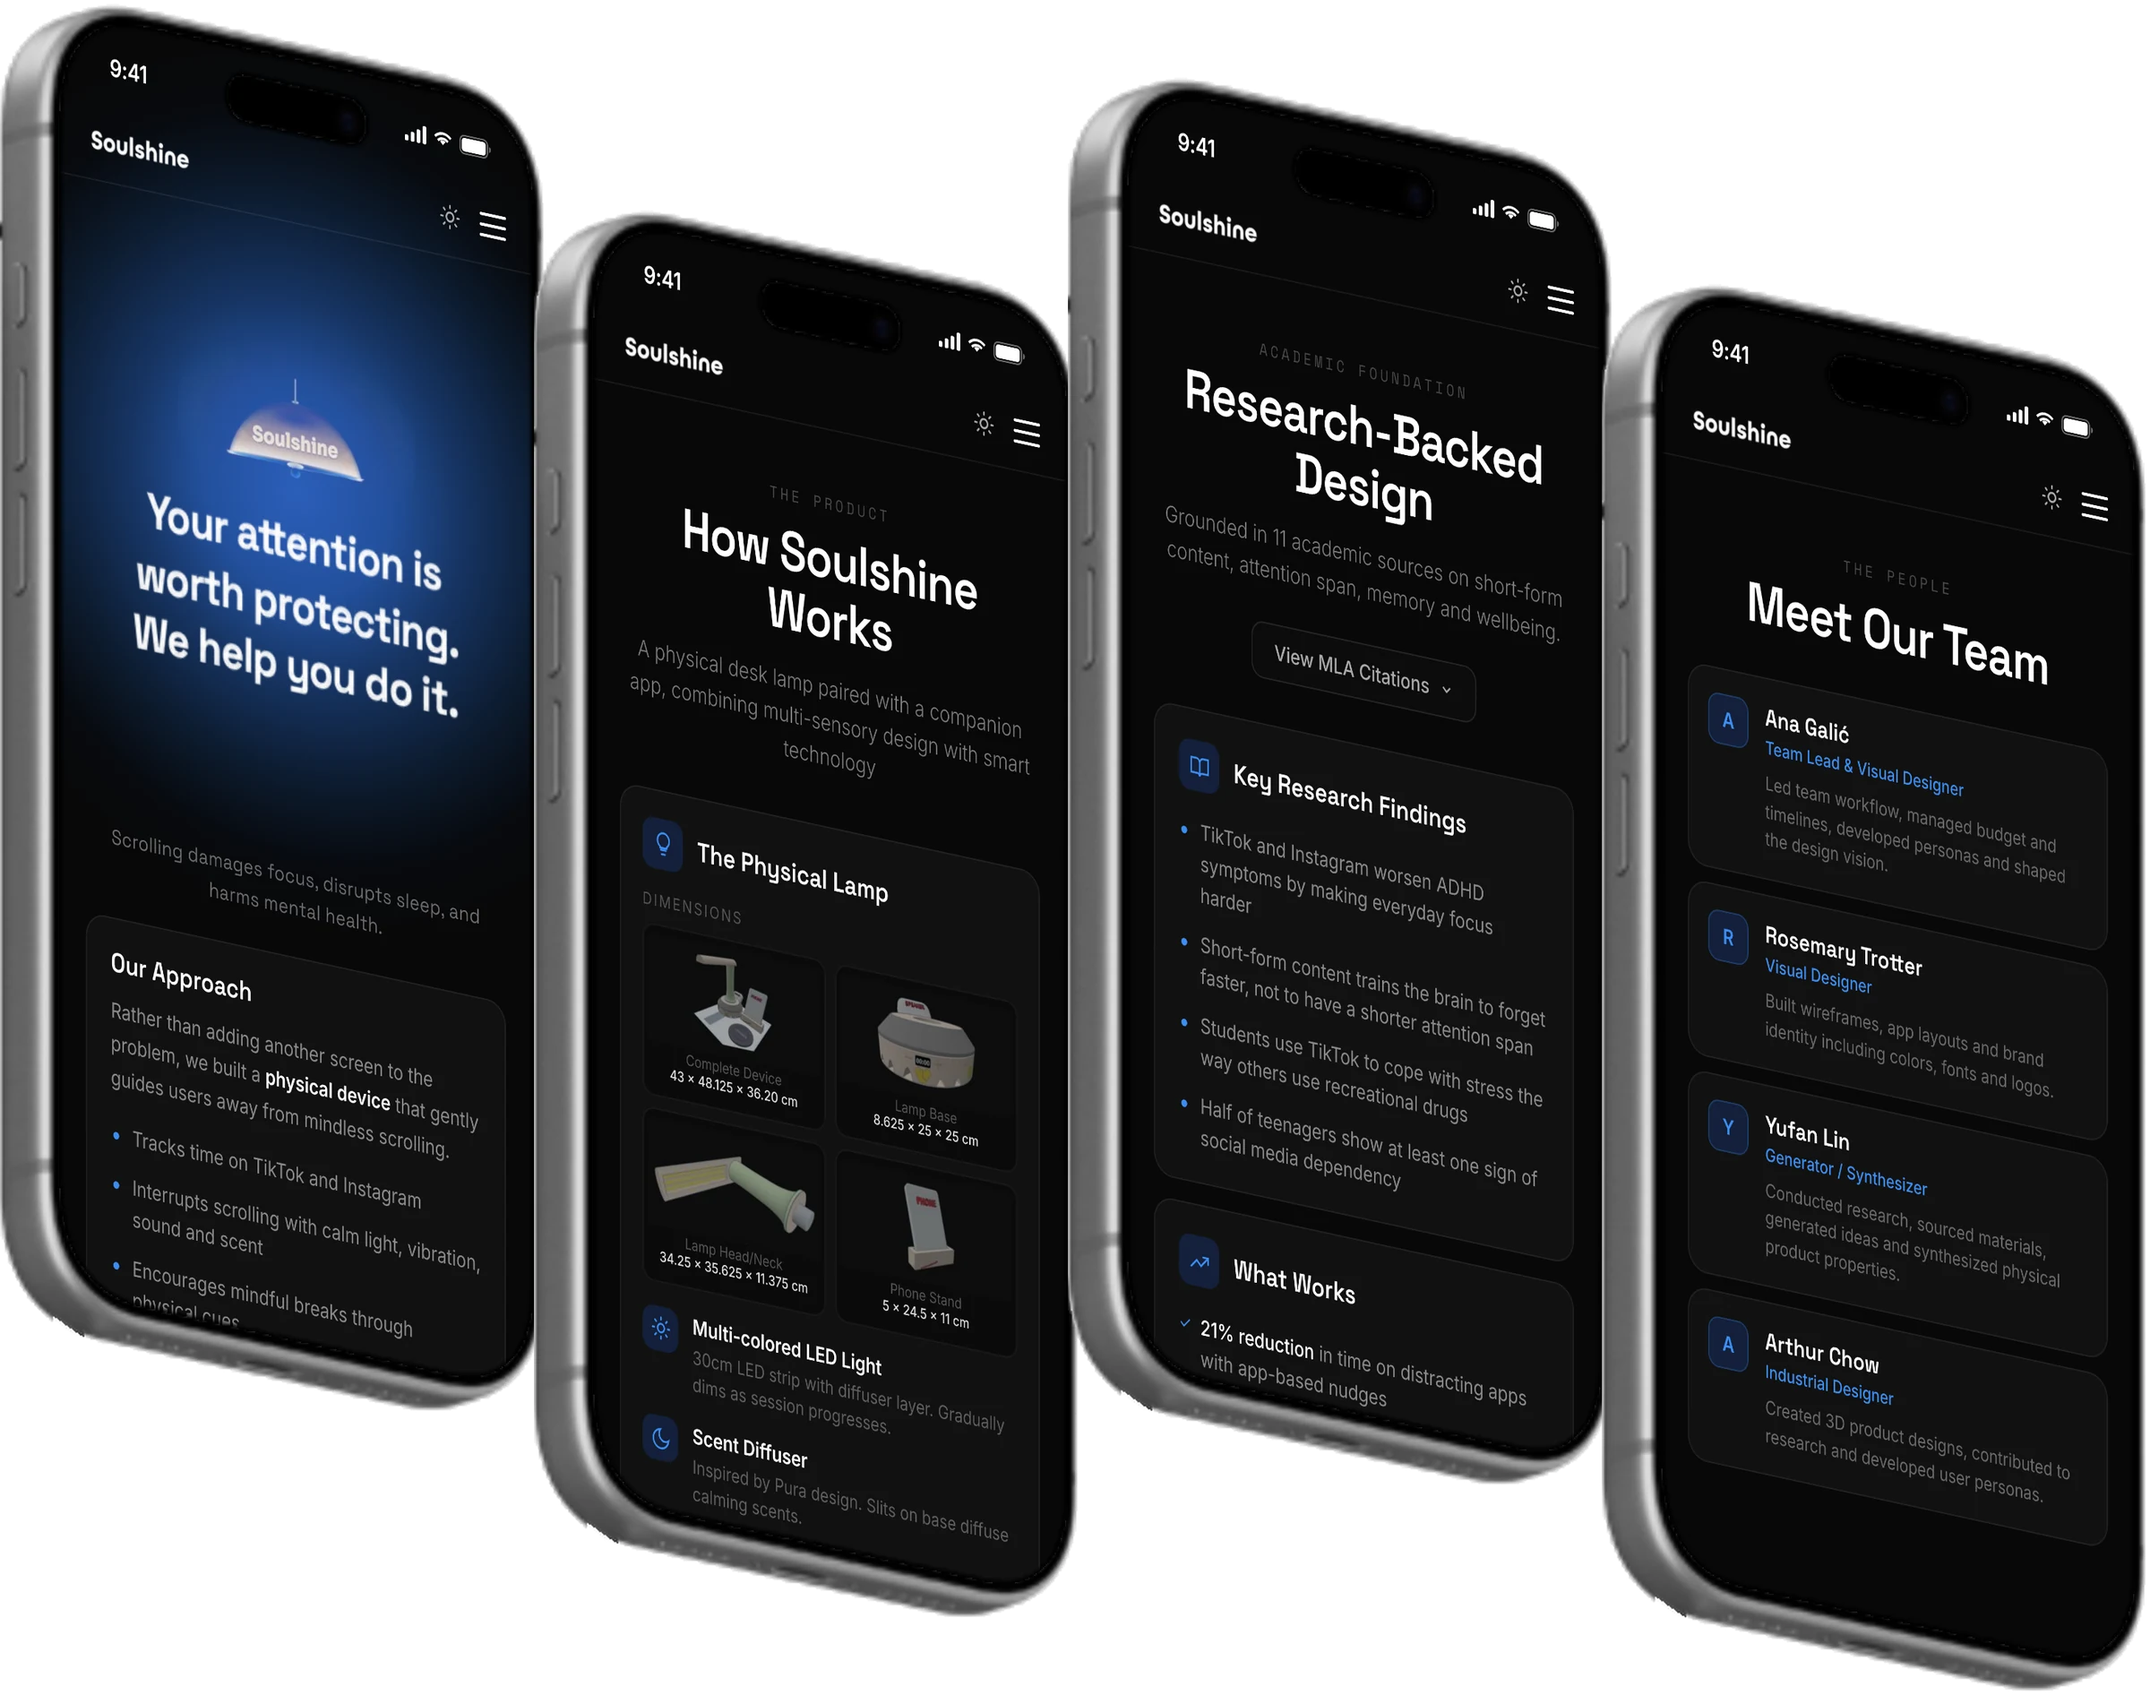
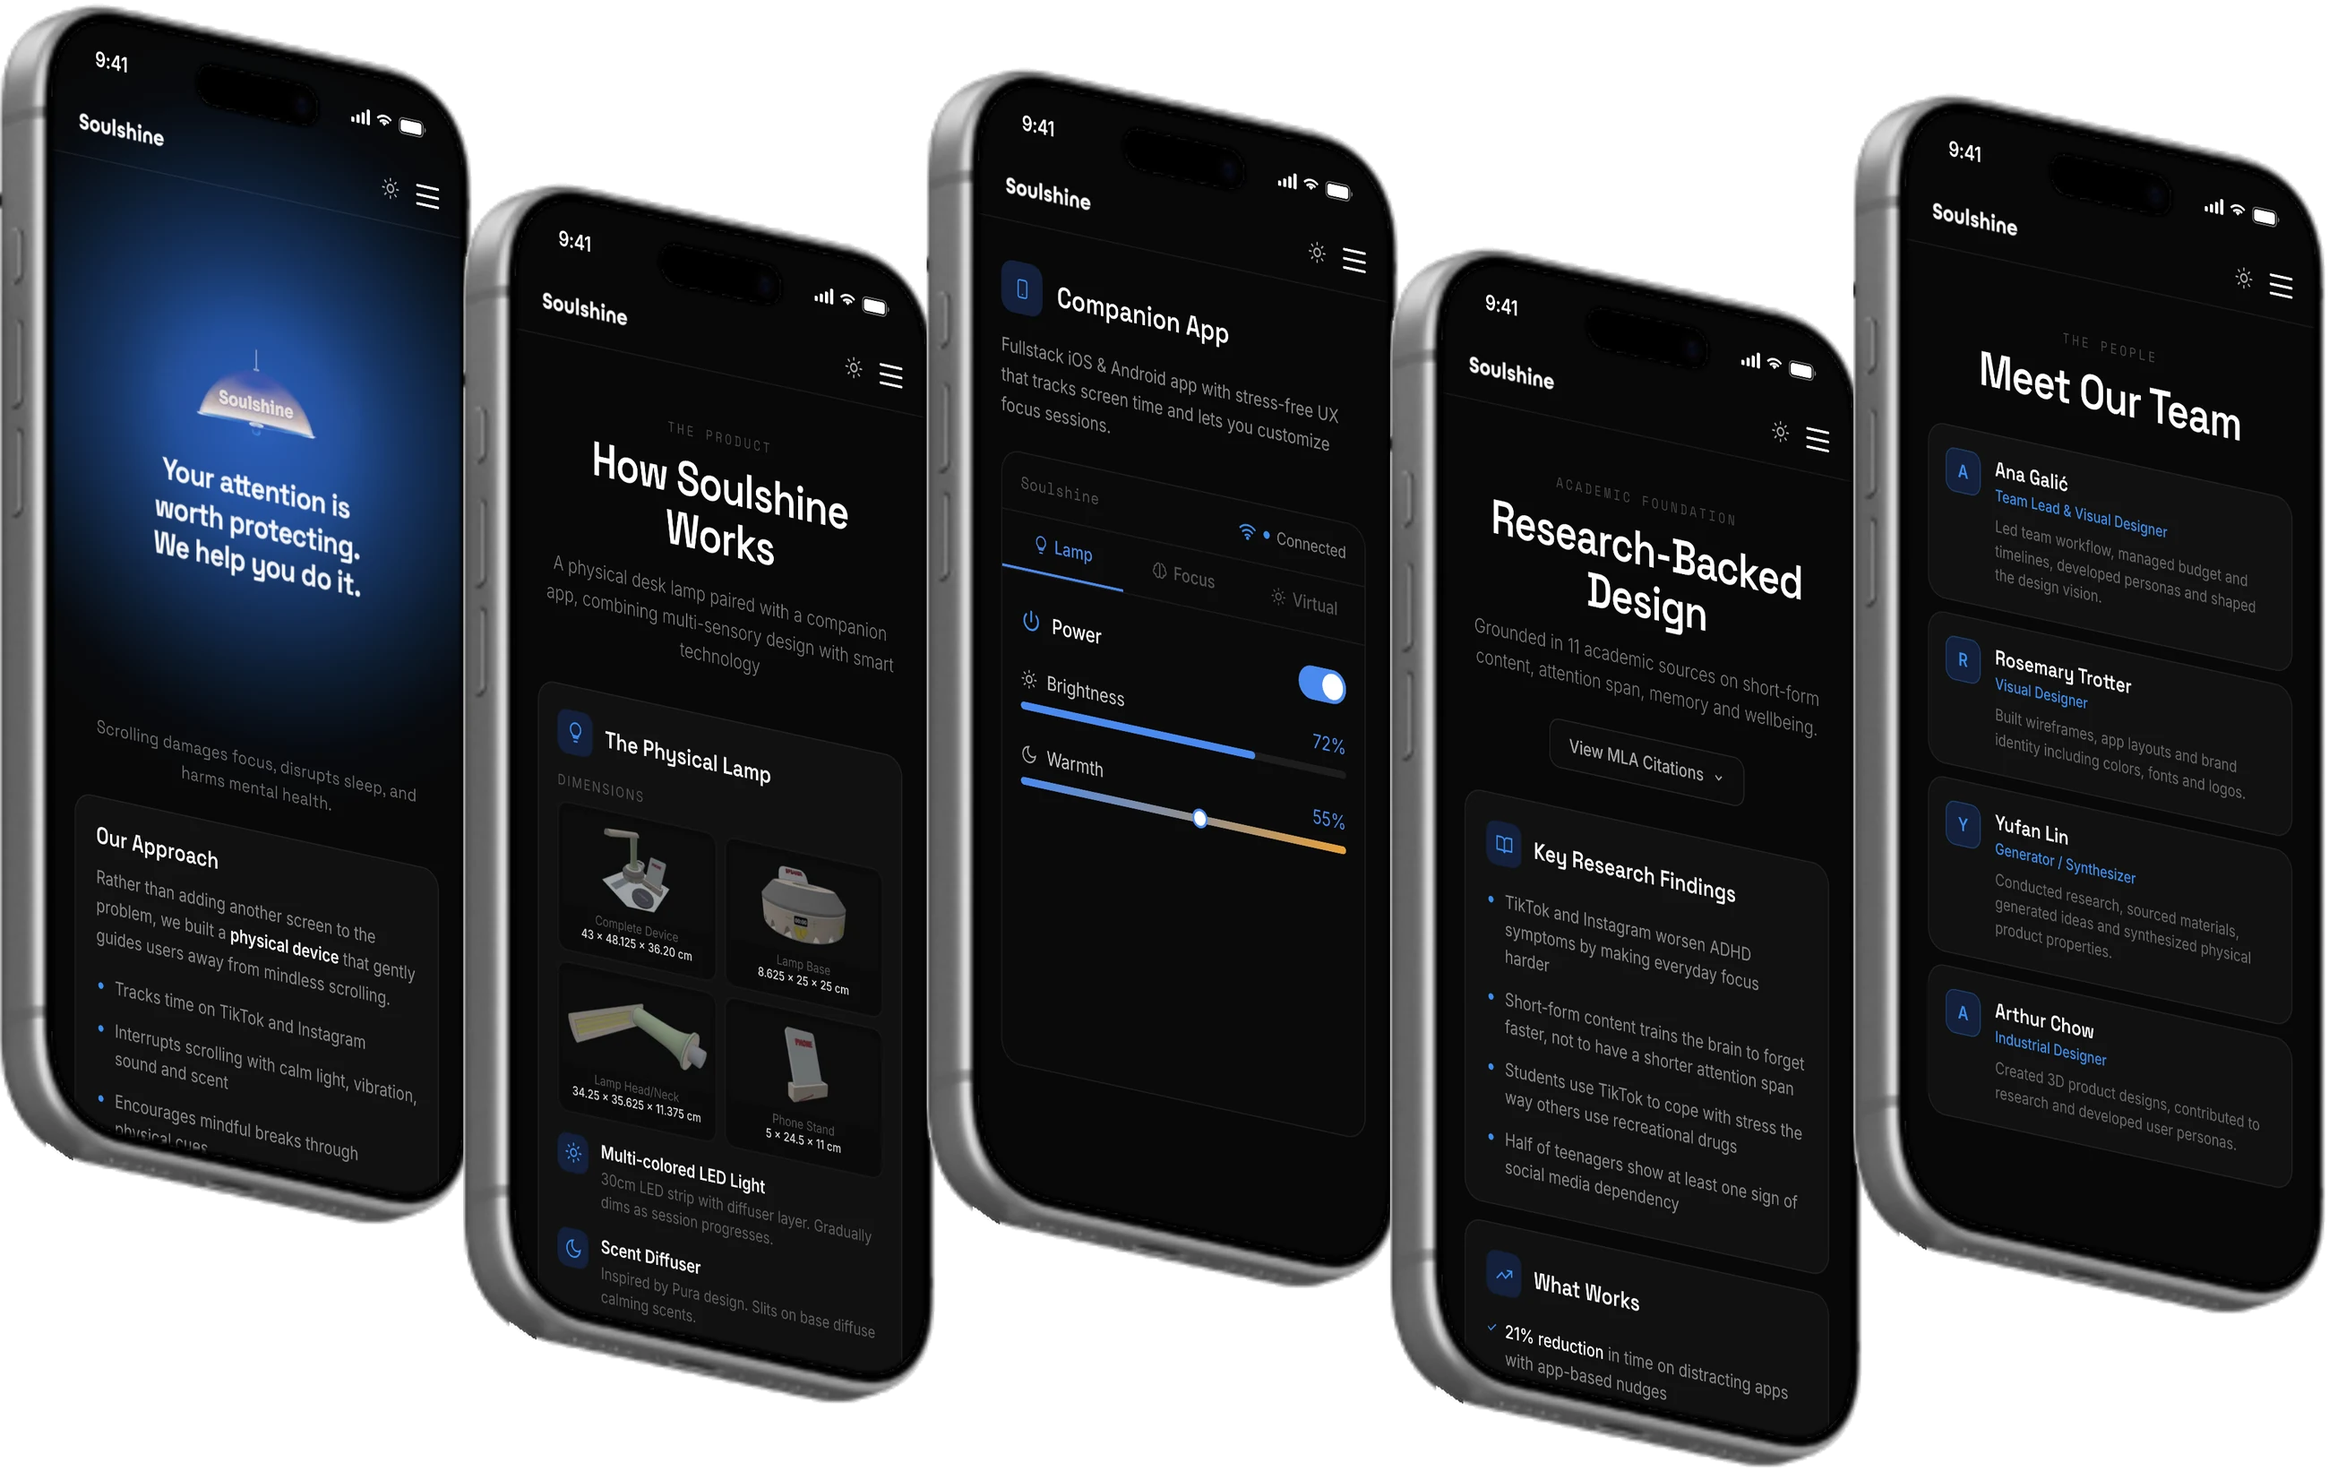
Soulshine phones: add Companion App screen, smaller About headline
Claude-Session: https://claude.ai/code/session_017Bf2Ji9pqjddmca5aaYHp1

diff --git a/index.html b/index.html
@@ -1496,7 +1496,7 @@ html.home-on.at-top .top::after{opacity:0}
 <section class="block-section" aria-labelledby="ss-site-h">
       <h2 class="sec-title" id="ss-site-h">Building the website &amp; brand</h2>
       <figure class="mockup"><img src="img/soulshine/mockup-modes.jpg" alt="Two laptops showing the Soulshine homepage in light mode and in dark mode, under the blue Soulshine lamp logo" loading="lazy"><figcaption class="label">The homepage in light and dark mode</figcaption></figure>
-      <figure class="mockup mockup-phones"><img src="img/soulshine/mobile-mockup.webp" width="2400" height="1892" alt="Four phones showing the Soulshine About, Product, Research and Team pages on mobile" loading="lazy"><figcaption class="label">About, Product, Research and Team on a phone</figcaption></figure>
+      <figure class="mockup mockup-phones"><img src="img/soulshine/mobile-mockup.webp?v=5" width="2600" height="1642" alt="Five phones showing the Soulshine About, Product, Companion App, Research and Team pages on mobile" loading="lazy"><figcaption class="label">About, Product, Companion App, Research and Team on a phone</figcaption></figure>
       <div class="highlights">
         <div class="hl"><p class="label">Built by me</p><h3>Figma Sites</h3><p>Designed and built the whole site myself: problem, product, research and team.</p></div>
         <div class="hl"><p class="label">A choice for the viewer</p><h3 class="with-icons">Light and dark mode <span class="mode-icons" aria-hidden="true"><img src="img/soulshine/icon-moon.png" alt=""><img src="img/soulshine/icon-sun.png" alt=""></span></h3><p>Every page works in both, switched with the sun icon.</p></div>
